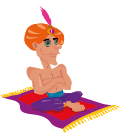
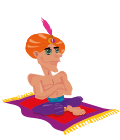
og

Changed region(s): [[0.0, 0.0286, 1.0, 0.9714]]

diff --git a/app/assets/stylesheets/main.css.scss b/app/assets/stylesheets/main.css.scss
@@ -149,67 +149,108 @@ h1{
 @-webkit-keyframes high {
   0% {
     top:30%;
+    background-image:image-url('laddinwebsite1.png');
+
   }
   20% {
     top:35%;
+    background-image:image-url('laddinwebsite.png');
+
   }
   40% {
     top:50%;
+    background-image:image-url('laddinwebsite1.png');
+
   }
   60% {
     top:45%;
+    background-image:image-url('laddinwebsite.png');
+
   }
   80% {
     top:50%;
+    background-image:image-url('laddinwebsite1.png');
+
   }
   100% {
     top:50%;
+    background-image:image-url('laddinwebsite.png');
+
   }
 }
 @-webkit-keyframes shroom {
   0% {
     top:30%;
+    background-image:image-url('laddinwebsite1.png');
+
+
   }
   20% {
     top:35%;
+    background-image:image-url('laddinwebsite.png');
+
   }
   40% {
     top:40%;
+    background-image:image-url('laddinwebsite1.png');
+
   }
   60% {
     top:30%;
+    background-image:image-url('laddinwebsite.png');
+
   }
   70% {
     top:28%;
+    background-image:image-url('laddinwebsite1.png');
+
   }
   80% {
     top:25%;
+    background-image:image-url('laddinwebsite.png');
+
   }
   100% {
     top:25%;
+    background-image:image-url('laddinwebsite1.png');
+
   }
 }
 @-webkit-keyframes drink {
   0% {
     top:40%;
+    background-image:image-url('laddinwebsite1.png');
+
   }
   20% {
     top:45%;
+    background-image:image-url('laddinwebsite.png');
+
   }
   40% {
     top:45%;
+    background-image:image-url('laddinwebsite1.png');
+
   }
   60% {
     top:40%;
+    background-image:image-url('laddinwebsite.png');
+
   }
   70% {
     top:45%;
+    background-image:image-url('laddinwebsite1.png');
+
   }
   80% {
     top:40%;
+    background-image:image-url('laddinwebsite.png');
+
   }
   100% {
     top:40%;
+    background-image:image-url('laddinwebsite1.png');
+
   }
 }
 #laddin {
@@ -222,7 +263,7 @@ h1{
 
 }
 #laddin.ready {
-  -webkit-animation-duration:8s;
+  -webkit-animation-duration:6s;
   -webkit-animation-iteration-count:infinite;
   display:block;
 }
